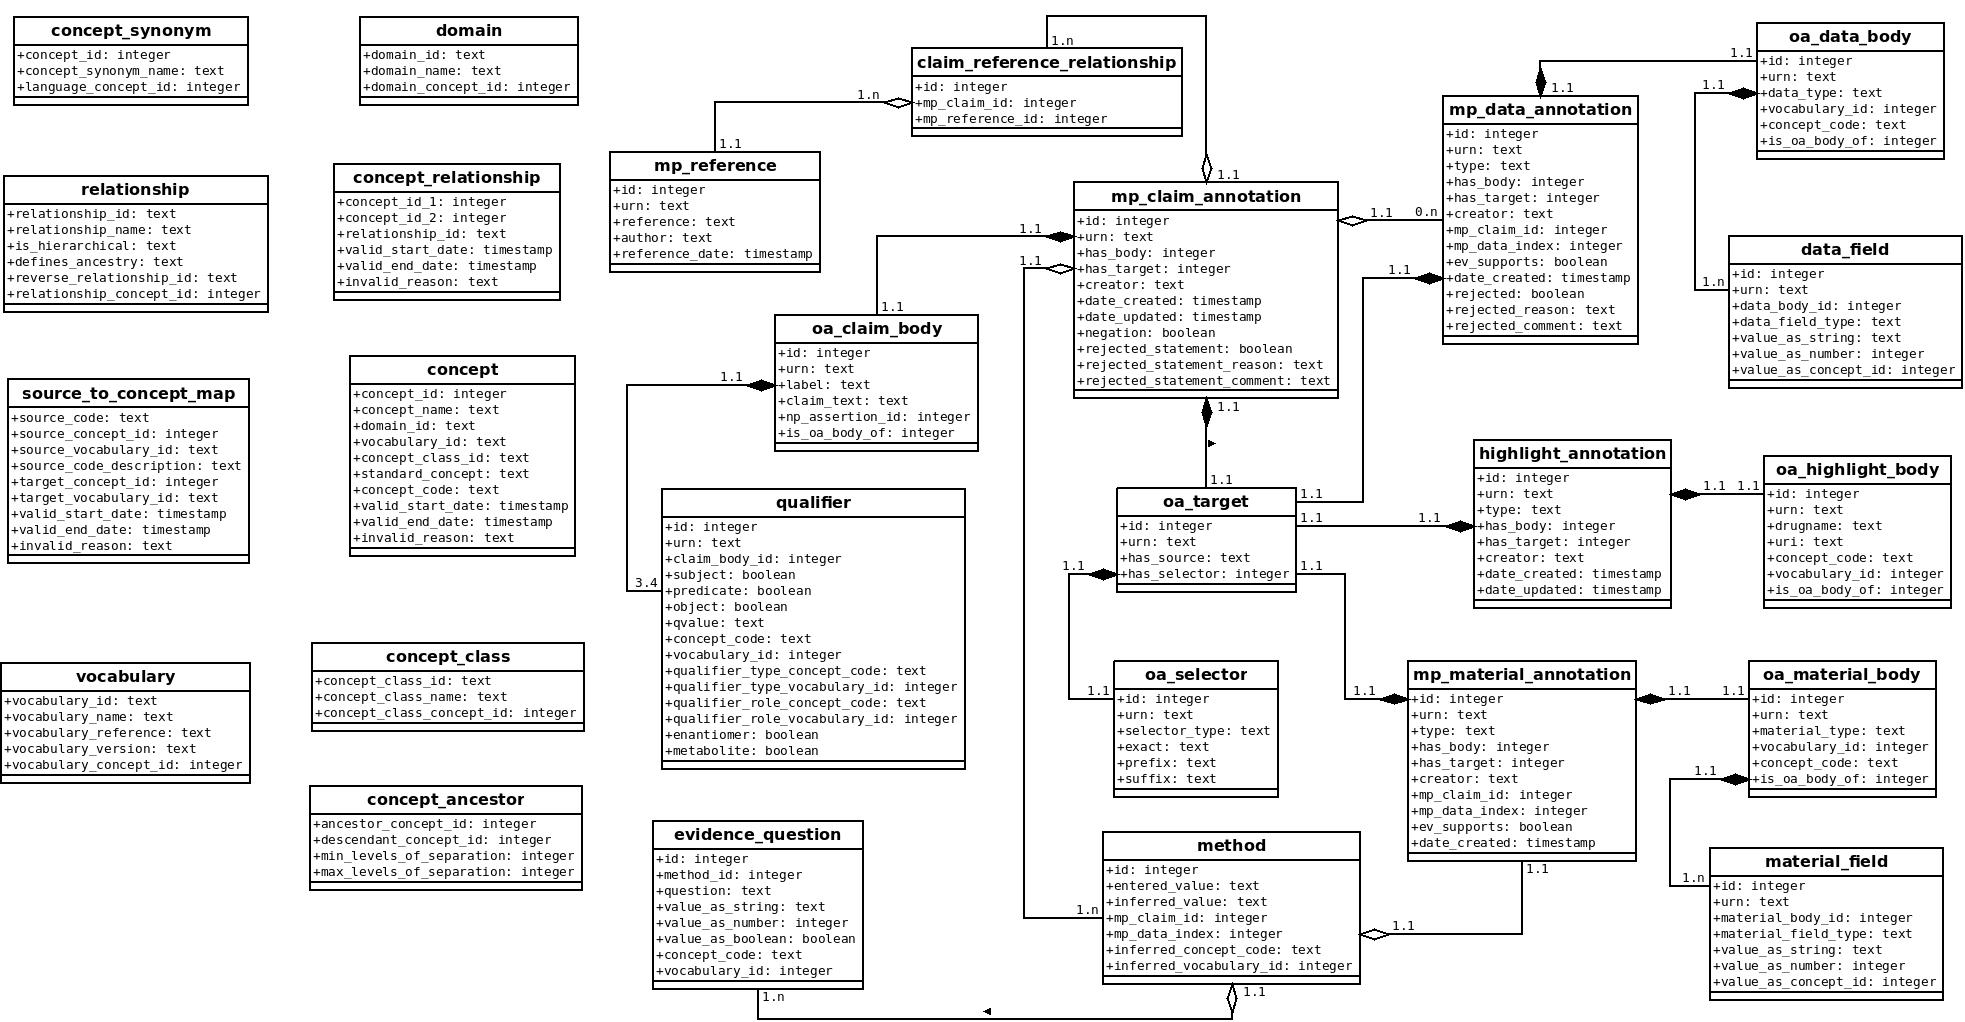
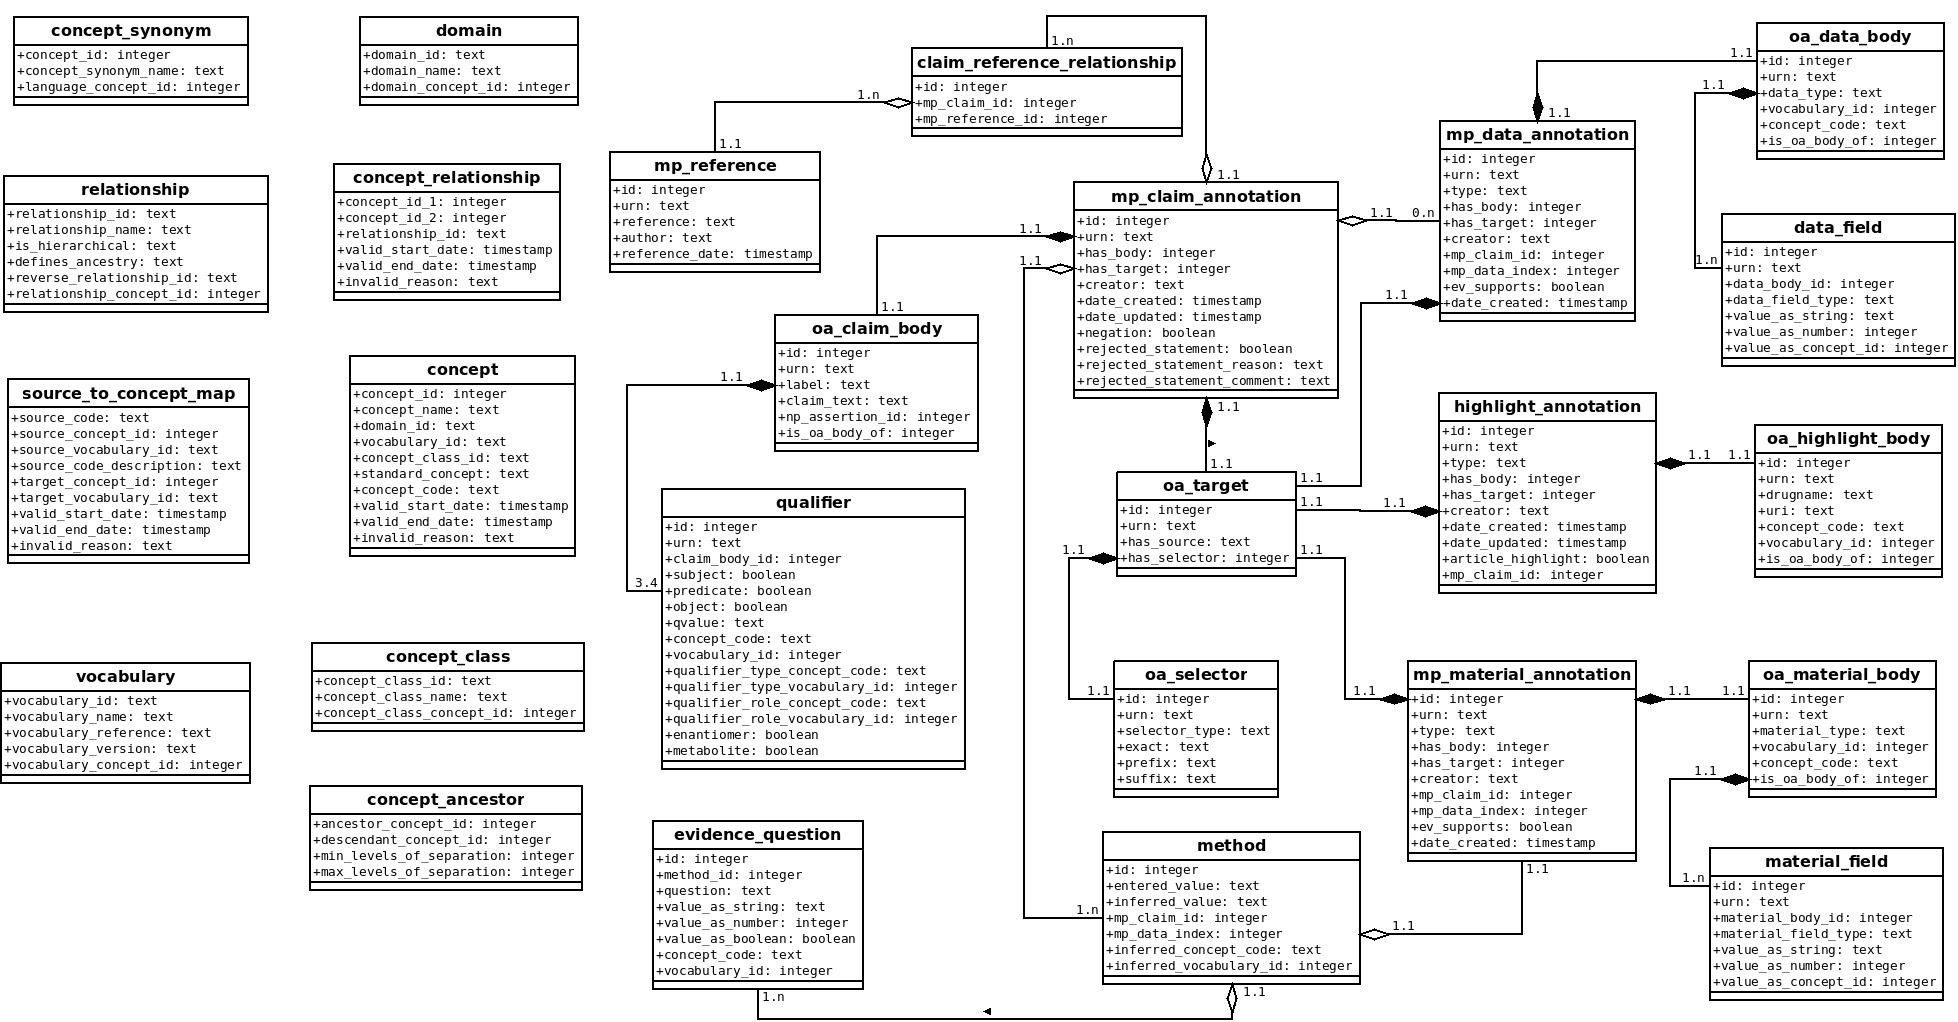
enable ETL highlight annotaiton

diff --git a/translation/mp-evidence-base-ETL/loadAnnotatorAnnsToRDB.py b/translation/mp-evidence-base-ETL/loadAnnotatorAnnsToRDB.py
@@ -30,19 +30,19 @@ sys.setdefaultencoding('utf8')
 annsDictCsv = {} ## keep document and count of annotations for validation after load
 
 # load annotaitons to postgres
-def load_annotations(conn, annotations):
+def load_annotations(conn, annotations, creator):
 
 	highlightD = {} # drug highlight set in documents {"doc url" : "drug set"}
 	curr_date = datetime.datetime.now()
 
 	for ann in annotations:
-		load_annotation(conn, ann)
-		#generateHighlightSet(row, highlightD)  # add unique drugs to set		
-	#load_highlight_annotation(conn, highlightD, creator)  # load drug highlight annotation
+		load_annotation(conn, ann, creator)
+		generateHighlightSet(ann, highlightD)  # add unique drugs to set		
+	load_highlight_annotations(conn, highlightD, creator)  # load drug highlight annotation
 	conn.commit()
 
 
-def load_annotation(conn, annotation):
+def load_annotation(conn, annotation, creator):
 	if isinstance(annotation, ClinicalTrial):
 		load_ClinicalTrial_annotation(conn, annotation)
 	elif isinstance(annotation, Statement):
@@ -54,28 +54,43 @@ def load_annotation(conn, annotation):
 
 
 # LOAD HIGHLIGHT ANNOTATION ########################################################
-def load_highlight_annotation(conn, highlightD, creator):
-
+def load_highlight_annotations(conn, highlightD, creator):
+	curr_date = datetime.datetime.now()
 	for url, drugS in highlightD.iteritems():
 		for drug in drugS:
 			selector_id = pgmp.insert_oa_selector(conn, "", drug, "")
 			target_id = pgmp.insert_oa_target(conn, url, selector_id)
 			oa_highlight_body_id = pgmp.insert_oa_highlight_body(conn, drug, url)
-			highlight_annotation_id = pgmp.insert_highlight_annotation(conn, type, oa_highlight_body_id, target_id, creator, curr_date, curr_date)
+			highlight_annotation_id = pgmp.insert_highlight_annotation(conn, oa_highlight_body_id, target_id, creator, curr_date, curr_date)
 			pgmp.update_oa_highlight_body(conn, highlight_annotation_id, oa_highlight_body_id)
 
 
-# def generateHighlightSet(row, highlightD):
+## add unique qualifiers by article to highlight dict for load
+# param1: Annotation  
+# param2: dict for highlight_annotaiton article_highlight as True
+def generateHighlightSet(annotation, highlightD):
+	source = annotation.source; sDrug = None; oDrug = None; qDrug = None
 
-# 	if not row["subject"] or not row["object"]:
-# 		print row
+	sQualifier = annotation.csubject
+	if sQualifier.isDrugProduct():
+		sDrug = sQualifier.qvalue
+	oQualifier = annotation.cobject
+	if oQualifier.isDrugProduct():
+		oDrug = oQualifier.qvalue		
+	if annotation.cqualifier:
+		qQualifier = annotation.cqualifier
+		if qQualifier.isDrugProduct():
+			qDrug = qQualifier.qvalue
 
-# 	subjectDrug = row[row["subject"]]; objectDrug = row[row["object"]]; source = row["document"]
-# 	if source in highlightD:
-# 		highlightD[source].add(subjectDrug)
-# 		highlightD[source].add(objectDrug)
-# 	else:
-# 		highlightD[source] = Set([subjectDrug, objectDrug])
+	if source not in highlightD:
+		highlightD[source] = Set([])
+
+	if sDrug:
+		highlightD[source].add(sDrug)
+	if oDrug:
+		highlightD[source].add(oDrug) 
+	if qDrug:
+		highlightD[source].add(qDrug)
 
 
 def addAnnsToCount(annsDict, document):
@@ -319,7 +334,7 @@ def load(conn, qryCondition, eshost, esport, dbschema, creator, isClean):
 	print "[INFO] Begin load data ..."
 
 	annotations = es.getMPAnnsByBody(eshost, esport, qryCondition)
-	load_annotations(conn, annotations)
+	load_annotations(conn, annotations, creator)
 	print "[INFO] annotation load completed!"
 
 	# if isClean in ["1","2"]:
@@ -332,7 +347,7 @@ def load(conn, qryCondition, eshost, esport, dbschema, creator, isClean):
 def main():
 
 	DB_SCHEMA = "../../db-schema/mp_evidence_schema.sql"
-	CREATOR = "DBMI ETL"; PG_DATABASE = 'mpevidence'
+	CREATOR = "dbmi.etl@gmail.com"; PG_DATABASE = 'mpevidence'
 	
 	if len(sys.argv) > 7:
 		ES_HOST = str(sys.argv[1])

diff --git a/translation/mp-evidence-base-ETL/postgres/mpEvidenceQry.py b/translation/mp-evidence-base-ETL/postgres/mpEvidenceQry.py
@@ -340,9 +340,9 @@ def addClinicalTrialMaterial(annotation, matResults):
 		ev_supports = row[8] # EV supports or refutes
 
 		if not annotation.getSpecificDataMaterial(dmIdx):
-			dmRow = DataMaterialRow(dmIdx) # create new row of data & material
+			dmRow = ClinicalTrialDMRow(dmIdx) # create new row of data & material
 			addEvRelationship(dmRow, ev_supports) # add evidence relationship
-			annotation.setSpecificDataMaterial(dmRow, index)
+			annotation.setSpecificDataMaterial(dmRow, dmIdx)
 		else:
 			dmRow = annotation.getSpecificDataMaterial(dmIdx)
 
@@ -362,9 +362,9 @@ def addPhenotypeClinicalStudyMaterial(annotation, matResults):
 		ev_supports = row[8] # EV supports or refutes
 
 		if not annotation.getSpecificDataMaterial(dmIdx):
-			dmRow = DataMaterialRow(dmIdx) # create new row of data & material
+			dmRow = PhenotypeDMRow(dmIdx) # create new row of data & material
 			addEvRelationship(dmRow, ev_supports) # add evidence relationship
-			annotation.setSpecificDataMaterial(dmRow, index)
+			annotation.setSpecificDataMaterial(dmRow, dmIdx)
 		else:
 			dmRow = annotation.getSpecificDataMaterial(dmIdx)
 
@@ -379,7 +379,6 @@ def addPhenotypeClinicalStudyMaterial(annotation, matResults):
 def addCaseReportMaterial(annotation, matResults):
 
 	for row in matResults:
-
 		mType = row[0]  # material type
 		mfType = row[1] # material field 
 		prefix = row[4]; exact = row[5]; suffix = row[6]; value = str(row[2] or row[3])
@@ -387,9 +386,9 @@ def addCaseReportMaterial(annotation, matResults):
 		ev_supports = row[8] # EV supports or refutes
 
 		if not annotation.getSpecificDataMaterial(dmIdx):
-			dmRow = DataMaterialRow(dmIdx) # create new row of data & material
+			dmRow = CaseReportDMRow(dmIdx) # create new row of data & material
 			addEvRelationship(dmRow, ev_supports) # add evidence relationship
-			annotation.setSpecificDataMaterial(dmRow, index)
+			annotation.setSpecificDataMaterial(dmRow, dmIdx)
 		else:
 			dmRow = annotation.getSpecificDataMaterial(dmIdx)
 
@@ -429,14 +428,8 @@ def addParticipants(dmRow, value, prefix, exact, suffix):
 # return dict for drug set in document   dict {"doc url": "drug set"} 
 def queryHighlightAnns(conn):
 	highlightD = {}
-
-	qry = """SELECT h.id, t.has_source, s.exact 
-	FROM highlight_annotation h, oa_target t, oa_selector s
-	WHERE h.has_target = t.id
-	AND t.has_selector = s.id;"""
-
 	cur = conn.cursor()
-	cur.execute(qry)
+	cur.execute("""SELECT h.id, t.has_source, s.exact FROM highlight_annotation h, oa_target t, oa_selector s WHERE h.has_target = t.id AND t.has_selector = s.id AND h.article_highlight = True;""")
 
 	for row in cur.fetchall():
 		source = row[1]; drugname = row[2]
@@ -447,4 +440,3 @@ def queryHighlightAnns(conn):
 			highlightD[source] = Set([drugname])
 	return highlightD
 
-#def queryQualifiers()

diff --git a/translation/mp-evidence-base-ETL/postgres/mpEvidenceLoad.py b/translation/mp-evidence-base-ETL/postgres/mpEvidenceLoad.py
@@ -145,7 +145,7 @@ def insert_material_field(conn, material_body_id, material_field_type, value_as_
 def insert_data_annotation(conn, mp_claim_id, has_target, creator, data_type, mp_data_index, ev_supports):
 
 	cur = conn.cursor(); urn = str(uuid.uuid4().hex)
-	cur.execute("""INSERT INTO mp_data_annotation (urn, type, has_target, creator, mp_claim_id, mp_data_index, ev_supports, date_created, rejected, rejected_reason, rejected_comment) VALUES (%s,%s,%s,%s,%s,%s,%s,%s,%s,%s,%s);""",(urn ,data_type, has_target, creator, mp_claim_id, mp_data_index, ev_supports, curr_date, None, None, None))
+	cur.execute("""INSERT INTO mp_data_annotation (urn, type, has_target, creator, mp_claim_id, mp_data_index, ev_supports, date_created) VALUES (%s,%s,%s,%s,%s,%s,%s,%s);""",(urn ,data_type, has_target, creator, mp_claim_id, mp_data_index, ev_supports, curr_date))
 
 	cur.execute("SELECT * FROM mp_data_annotation WHERE urn = '" + urn + "';")
 	for result in cur.fetchall():
@@ -176,24 +176,21 @@ def insert_data_field(conn, data_body_id, data_field_type, value_as_string, valu
 
 
 # # HIGHLIGHT ANNOTATION ########################################################
-# def insert_highlight_annotation(conn, type, has_body, has_target, creator, date_created, date_updated):
-# 	urn = uuid.uuid4().hex
-# 	cur = conn.cursor()
+def insert_highlight_annotation(conn, has_body, has_target, creator, date_created, date_updated):
+	urn = uuid.uuid4().hex
+	cur = conn.cursor()
+	cur.execute("INSERT INTO highlight_annotation (urn, type, has_body, has_target, creator, date_created, date_updated, article_highlight) VALUES (%s, %s, %s, %s, %s, %s, %s, %s);", (urn, "DrugMention", str(has_body), str(has_target), creator, date_created, date_updated, True));
 
-# 	qry2 = "INSERT INTO highlight_annotation (urn, type, has_body, has_target, creator, date_created, date_updated) VALUES ('%s', '%s', '%s', '%s', '%s', '%s', '%s');" % (urn, "all", str(has_body), str(has_target), creator, date_created, date_updated);
-# 	cur.execute(qry2);
-
-# 	qry2 = "SELECT * FROM highlight_annotation WHERE urn = '%s';" % (urn)
-# 	cur.execute(qry2)
-# 	for row in cur.fetchall():
-# 		return row[0]
-# 	return None
+	qry2 = "SELECT * FROM highlight_annotation WHERE urn = '%s';" % (urn)
+	cur.execute(qry2)
+	for row in cur.fetchall():
+		return row[0]
+	return None
 
 
 def insert_oa_highlight_body(conn, drug, url):
 	urn = uuid.uuid4().hex
 	cur = conn.cursor()
-
 	qry1 = "INSERT INTO oa_highlight_body (urn, drugname, uri) VALUES ('%s', '%s', '%s');" % (urn, drug, url);
 	cur.execute(qry1);
 	

diff --git a/translation/mp-evidence-base-ETL/translateRDB2Elastic.py b/translation/mp-evidence-base-ETL/translateRDB2Elastic.py
@@ -195,39 +195,6 @@ def parseEvSupports(ev_supports):
 		return "refutes"
 
 
-# load mp annotation to specific account by email
-#def loadMpAnnotation(annotation, email):			
-	# # MP Data & Material
-	# dmRows = annotation.getDataMaterials()	
-	# for index,dmRow in dmRows.items(): # walk though all data items for claim
-		
-	# 	mpData = loadTemplateInJson(MP_DATA_TEMPLATE) # data template
-		
-	# 	# MP Data - dips questions
-	# 	dataDips = dmRow.getDataDips()
-	# 	if dataDips:
-	# 		dipsQsD = dataDips.getDipsDict()
-	# 		if dipsQsD and isinstance(dipsQsD, dict):
-	# 			for qs in dipsQsD:
-	# 				mpData["dips"][qs] = dipsQsD[qs]
-	# 	print mpData["dips"]
-
-	# 	# MP Data - reviewer		
-	# 	reviewer = dmRow.getDataReviewer()
-	# 	if reviewer:
-	# 		mpData["reviewer"]["reviewer"] = reviewer.reviewer
-	# 		mpData["reviewer"]["date"] = reviewer.date
-	# 		mpData["reviewer"]["total"] = reviewer.total
-	# 		mpData["reviewer"]["lackInfo"] = reviewer.lackinfo
-
-	# 	# MP Material
-	# 	if dmRow.getPhenotype():		
-	# 		mpData["supportsBy"]["supportsBy"]["phenotype"]["type"] = dmRow.getPhenotype().ptype
-	# 		mpData["supportsBy"]["supportsBy"]["phenotype"]["value"] = dmRow.getPhenotype().value
-	# 		mpData["supportsBy"]["supportsBy"]["phenotype"]["metabolizer"] = dmRow.getPhenotype().metabolizer
-	# 		mpData["supportsBy"]["supportsBy"]["phenotype"]["population"] = dmRow.getPhenotype().population		
-
-
 # return oa selector in json
 def generateOASelector(prefix, exact, suffix):
 
@@ -251,7 +218,6 @@ def loadHighlightAnnotation(rawurl, content, email):
 	#	return
 
 	annotation = loadTemplateInJson(HIGHLIGHT_TEMPLATE)
-
 	oaSelector = generateOASelector("", content, "")
 	annotation["argues"]["hasTarget"] = oaSelector
 
@@ -284,9 +250,8 @@ def main():
 	annotations = pgqry.getMpAnnotations(conn)	
 	loadMpAnnotations(annotations, AUTHOR)
 
-	#highlightD = pgqry.queryHighlightAnns(conn)
-	#print highlightD
-	#loadHighlightAnnotations(highlightD, AUTHOR)
+	highlightD = pgqry.queryHighlightAnns(conn)
+	loadHighlightAnnotations(highlightD, AUTHOR)
 
 	conn.close()
 	print "[INFO] elasticsearch load completed"

diff --git a/translation/mp-evidence-base-ETL/model/Micropublication.py b/translation/mp-evidence-base-ETL/model/Micropublication.py
@@ -417,11 +417,24 @@ class MaterialPhenotypeItem(DMItem):
 			self.population = value 
 	
 
-# # Method that supports data & material
+## Method that supports data & material
 class Method():
 	def __init__(self, entered_value, inferred_value):
 		self.entered_value = entered_value
 		self.inferred_value = inferred_value
+
+
+# ## Highlight annotation
+# class Highlight():
+# 	def __init__(self, prefix, exact, suffix, source):
+# 		self.prefix = prefix
+# 		self.exact = exact
+# 		self.suffix = suffix
+# 		self.source = source
+# 		self.mp_claim_id = None
+
+# 	def addMpClaimId(self, mp_claim_id):
+# 		self.mp_claim_id = mp_claim_id
 
 
 def createSubAnnotation(urn, source, label, method, email, date):

diff --git a/translation/mp-evidence-base-ETL/validate.py b/translation/mp-evidence-base-ETL/validate.py
@@ -116,7 +116,7 @@ def etlAnnForTesting(conn, template, annUrn):
 	annotation = esmp.getMPAnnById("localhost", "9200", annUrn)
 
 	## load annotation to postgres DB
-	pgload.load_annotation(conn, annotation)
+	pgload.load_annotation(conn, annotation, "dbmi.etl@gmail.com")
 
 	## qry postgres for the annotation
 	annotations = pgqry.getMpAnnotations(conn)	
